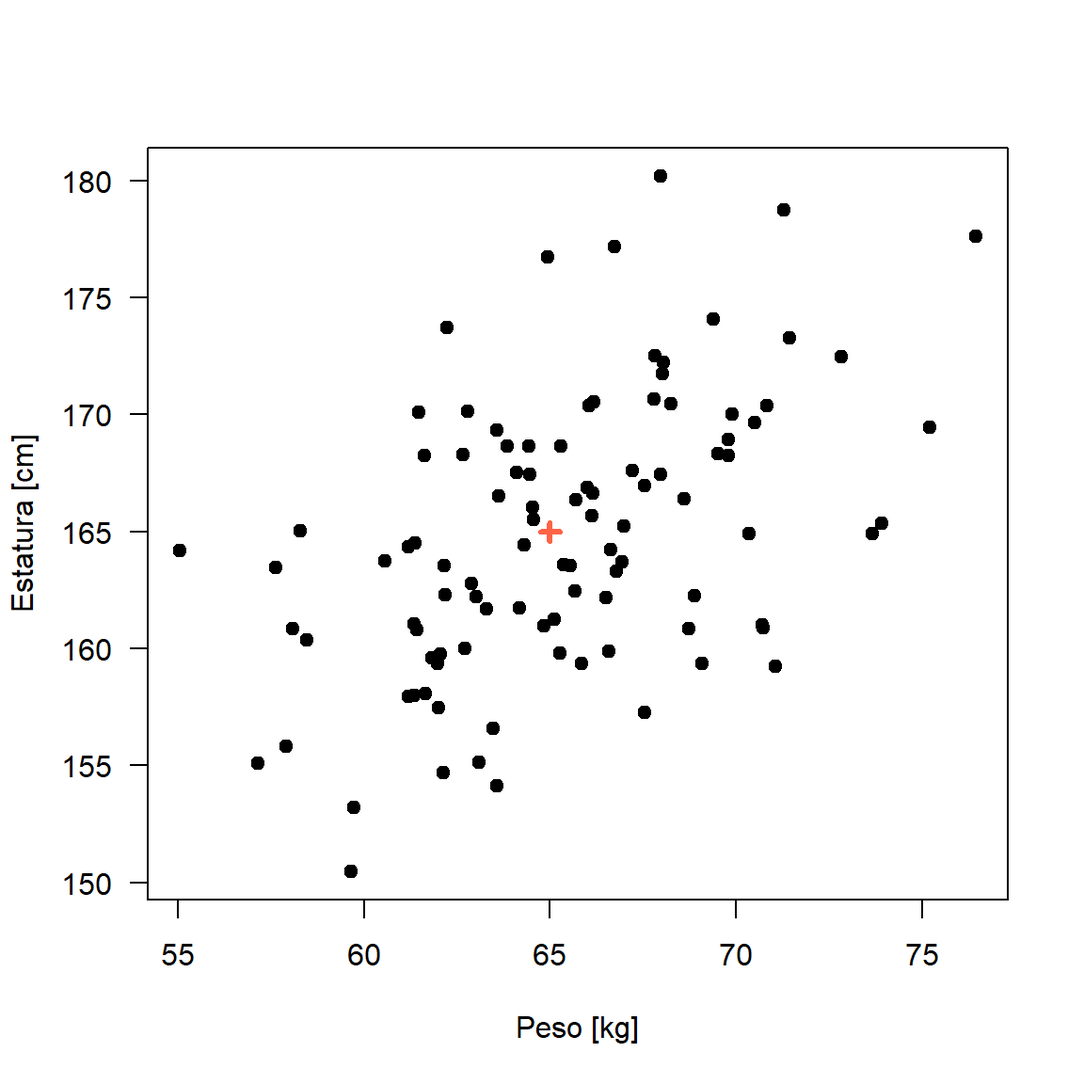
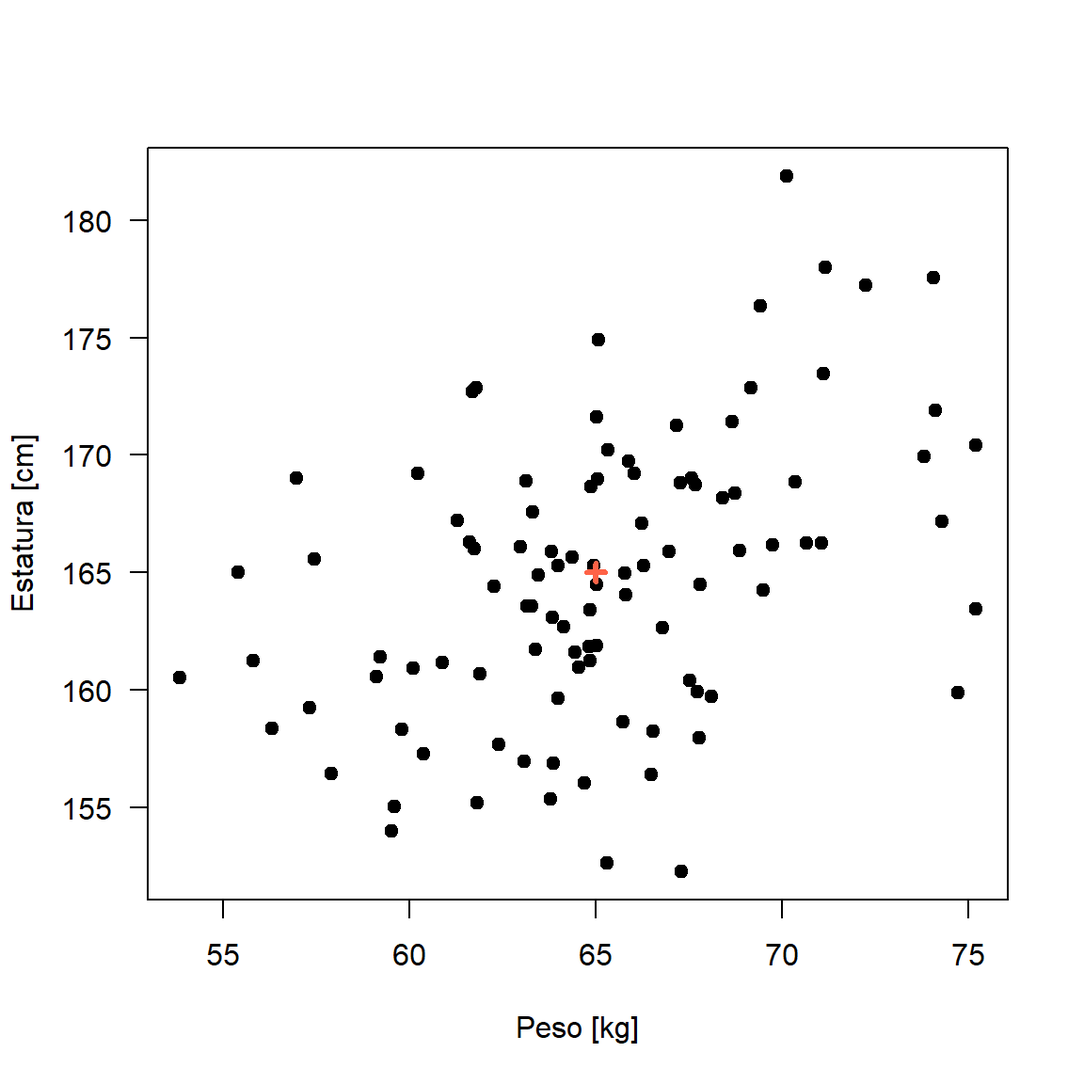
cambié la dimension de Sigma

diff --git a/docs/normalmulti.html b/docs/normalmulti.html
@@ -629,9 +629,9 @@ div.csl-indent {
 <p>En este capítulo se mostrarán aspectos importantes de la distribución normal multivariada.</p>
 <div id="función-de-densidad" class="section level2 hasAnchor" number="23.1">
 <h2><span class="header-section-number">23.1</span> Función de densidad<a href="normalmulti.html#función-de-densidad" class="anchor-section" aria-label="Anchor link to header"></a></h2>
-<p>En la densidad Normal <span class="math inline">\(p\)</span>-variada, hay dos parámetros, <span class="math inline">\(\boldsymbol{\mu}\)</span> y <span class="math inline">\(\boldsymbol{\Sigma}\)</span>. El primero es un vector de columna <span class="math inline">\(p \times 1\)</span> de parámetros de localización y una <span class="math inline">\(n\times n\)</span> matriz de dispersión <span class="math inline">\(\boldsymbol{\Sigma}\)</span>. La función de densidad de una normal multivariada es la siguiente:</p>
+<p>En la densidad Normal <span class="math inline">\(p\)</span>-variada, hay dos parámetros, <span class="math inline">\(\boldsymbol{\mu}\)</span> y <span class="math inline">\(\boldsymbol{\Sigma}\)</span>. El primero es un vector de columna <span class="math inline">\(p \times 1\)</span> de parámetros de localización y una <span class="math inline">\(p \times p\)</span> matriz de dispersión <span class="math inline">\(\boldsymbol{\Sigma}\)</span>. La función de densidad de una normal multivariada es la siguiente:</p>
 <p><span class="math display">\[\begin{equation}
-f(\mathbf{x} | \boldsymbol{\mu}, \boldsymbol{\Sigma}) =\frac{1}{\sqrt{(2\pi)^{n}|\boldsymbol{\Sigma}|}} \exp \left( -\frac{1}{2}(\mathbf{x}-\boldsymbol{\mu})^\top\boldsymbol{\Sigma}^{-1}(\mathbf{x}-\boldsymbol{\mu}) \right)
+f(\mathbf{x} | \boldsymbol{\mu}, \boldsymbol{\Sigma}) =\frac{1}{\sqrt{(2\pi)^{p}|\boldsymbol{\Sigma}|}} \exp \left( -\frac{1}{2}(\mathbf{x}-\boldsymbol{\mu})^\top\boldsymbol{\Sigma}^{-1}(\mathbf{x}-\boldsymbol{\mu}) \right)
 \end{equation}\]</span></p>
 <p>El símbolo <span class="math inline">\(|\boldsymbol{\Sigma}|\)</span> se refiere al determinante de la matriz <span class="math inline">\(\boldsymbol{\Sigma}\)</span>. Esta ecuación asume que <span class="math inline">\(\boldsymbol{\Sigma}\)</span> se puede invertir, y una condición suficiente para la existencia de una inversa es que el determinante no sea <span class="math inline">\(0\)</span>. La matriz <span class="math inline">\(\boldsymbol{\Sigma}\)</span> debe ser semidefinida positiva para asegurar que el punto más probable es <span class="math inline">\(\boldsymbol{\mu}\)</span> y que, a medida que <span class="math inline">\(\mathbf{x}\)</span> se aleja de <span class="math inline">\(\boldsymbol{\mu}\)</span> en cualquier dirección, entonces la probabilidad de observar <span class="math inline">\(\mathbf{x}\)</span> disminuye.</p>
 <div id="ejemplo-78" class="section level3 unnumbered hasAnchor">
@@ -737,8 +737,8 @@ Figure 23.2: Diagrama de dispersión para datos simulados de una normal bivariad
 <span id="cb7-6"><a href="normalmulti.html#cb7-6" aria-hidden="true" tabindex="-1"></a><span class="fu">plot_ly</span>(<span class="at">x=</span><span class="sc">~</span>datos[,<span class="dv">1</span>], <span class="at">y=</span><span class="sc">~</span>datos[,<span class="dv">2</span>], <span class="at">z=</span><span class="sc">~</span>density, </span>
 <span id="cb7-7"><a href="normalmulti.html#cb7-7" aria-hidden="true" tabindex="-1"></a>        <span class="at">type =</span> <span class="st">&quot;scatter3d&quot;</span>, <span class="at">color=</span>density)</span></code></pre></div>
 <div class="figure"><span style="display:block;" id="fig:simul2plotly"></span>
-<div id="htmlwidget-c6c1c64728de58faf927" style="width:672px;height:480px;" class="plotly html-widget"></div>
-<script type="application/json" data-for="htmlwidget-c6c1c64728de58faf927">{"x":{"visdat":{"a6cc37fa69a8":["function () ","plotlyVisDat"]},"cur_data":"a6cc37fa69a8","attrs":{"a6cc37fa69a8":{"x":{},"y":{},"z":{},"color":[0.00579759314305372,0.00105528846149096,0.00280936539279586,0.00517449883463428,0.00642470257645133,0.00177602798788303,0.00230163849837282,0.00401186933052929,0.00321793139850274,0.00207317344766544,0.000388873676634169,0.00127217318703608,0.000481570785408012,0.00416577438685134,0.0035698189921598,0.00683325513167298,0.000525445046241242,0.0013005999193521,0.00622293663816126,0.00176786421339844,0.000123986461436872,0.000833032685163327,0.00497811299191095,0.000649568251051195,0.00593888162554871,0.00437683191200781,0.00302797392453034,0.00420530231718908,0.00521907975782822,0.00303868638118235,0.00635371126037551,0.00717727576025716,0.00317284981860455,0.00687138456484001,0.00562029138911437,0.00477534580227932,0.00160907380443444,0.00606153020086021,0.00419421108201373,0.00537588203257385,0.00107999553166713,0.00395092323351335,0.00601921017062452,0.000808566121879351,0.00324160423888364,0.00614679747429576,0.00479918580370738,0.000119413174231353,0.00220173958257536,0.00617006249894637,0.00428584277134906,0.00524918991668494,0.00688977193072637,0.00648473530799035,0.000215571087064113,0.00426727391367376,0.00292762600579918,0.0062061773381516,0.0043023300967611,0.000673570517772477,0.000298408854267893,0.000676027284988996,0.00618701482507847,0.00576432343312721,0.00110752472905934,0.0069922896945597,0.00040252851712066,0.00116287078128259,0.00475926566962914,0.000518312728683546,0.00282584737305007,0.00120316372247307,0.00309298014335505,0.00337223180570515,0.00188245889665358,0.004442842008089,0.00406000018090008,0.00399400979484903,0.00244416444024917,0.00521926852743129,0.00589771497390645,0.00677194134031826,0.00704200267341645,0.00131286700010196,0.00715157196690165,0.00410361922835462,0.00304198653283012,0.0057439406666643,0.00278204584262466,0.0048019869592866,0.00281636197141063,0.00320234463205784,0.00329117396276771,0.0048504937184567,0.000697812792093176,0.00430826008470441,0.00590806680343041,0.00704659897102595,0.00603240093355666,0.00164657391234815],"alpha_stroke":1,"sizes":[10,100],"spans":[1,20],"type":"scatter3d"}},"layout":{"margin":{"b":40,"l":60,"t":25,"r":10},"scene":{"xaxis":{"title":"datos[, 1]"},"yaxis":{"title":"datos[, 2]"},"zaxis":{"title":"density"}},"hovermode":"closest","showlegend":false,"legend":{"yanchor":"top","y":0.5}},"source":"A","config":{"modeBarButtonsToAdd":["hoverclosest","hovercompare"],"showSendToCloud":false},"data":[{"x":[62.1832911658741,70.7354836811572,62.0049505326499,64.4216588292309,66.6242051848748,69.3948899379712,68.7285419936453,65.2561334952548,70.5139015290411,63.4747028017147,55.0440333073416,72.8318125675638,66.7237377947302,61.9799056569962,69.8918202443442,66.0012794771121,75.1973178236361,69.0970745560697,63.6117382641261,58.2870697024157,67.9622325656515,63.5637432883332,61.3595502073356,73.9081864251716,62.1558811800021,66.0548952095309,68.0426983249228,68.2583173459498,68.6016535729429,68.871359793259,62.8966088410796,64.2993318416323,61.6302733455966,65.3609313713837,65.2902143863991,61.4342012332025,71.4453891742475,64.1860319316256,67.7891383345189,65.1101714984938,67.5460185402984,69.7963246732543,63.3020483783744,57.1431514691835,66.5806031345392,67.5413131659225,63.855671846105,76.4450886334611,58.0937767976378,64.4692208730175,61.8283067124298,64.8324740538161,66.1572677377843,66.9888085236827,59.6472961222063,66.1880497704604,70.3545065065715,63.0073112057604,60.5528262420166,62.223543504975,71.274415942359,73.672721177694,67.2114490750207,66.792154725218,70.7149312866757,64.5381821377019,64.9490829529868,57.9143738666238,62.7045011230758,71.0574953547652,67.8206669327799,62.1255043594595,61.3573118971582,68.0319131721358,61.4606284538395,62.0439736016169,69.7966377762303,63.5809574083071,58.4649871609381,66.4953260508466,66.9253412369246,65.5400290634223,66.1327973530395,63.0823057210476,64.5657599790716,62.6613194843501,61.1862638025701,67.9825947302908,62.7880373538102,61.3366893151766,70.832330584848,61.6499538826741,65.8546725316859,61.1957309968995,59.7404738749162,69.5119050929037,64.114769390357,65.6979157245332,65.6823645508529,57.6403780839912],"y":[162.287779401461,160.869974108972,157.4523618333,168.6692841401,164.227575775777,174.079950321233,160.849343138887,159.81068100761,169.658876938395,156.589695677352,164.169516773292,172.478100957479,177.194275907145,159.368562613421,170.019752547548,166.884905917765,169.452382744069,159.357548407828,166.506751693643,165.019948334512,180.213126798146,154.144514556395,164.508607149206,165.352777019409,163.551912405463,170.374603640873,172.230493796835,170.469102967501,166.385177767541,162.245579051743,162.762431419394,164.414685975276,168.258447460959,163.599098727556,168.658233093223,160.820978572231,173.288706372389,161.736727470497,170.662555136538,161.258449309676,157.257758342237,168.932042659017,161.698828098016,155.084845061355,159.893585603152,166.961682039089,168.652937778239,177.616965062623,160.863781272707,167.452795523881,159.611556379005,160.960761028265,166.627629699216,165.226843351812,150.470431689807,170.5363567353,164.903936647557,162.219894834693,163.76150894095,173.706816421395,178.737640083926,164.899928644617,167.588546964547,163.286992962306,160.999533118642,166.020061726623,176.745708786533,155.841212001272,159.996291434112,159.24462490088,172.53037315079,154.685127809554,157.990572278565,171.747009821768,170.105518867689,159.749537001769,168.243550720061,169.34708345879,160.363801217251,162.187953551809,163.693728373437,163.546823777466,165.674163678789,155.136633037773,165.518742673002,168.280645707617,157.970048892193,167.444144473053,170.121022436532,161.033731989607,170.376380263384,158.073616242357,159.379125653003,164.345082821732,153.210992470959,168.316712687185,167.51493460034,166.345488501209,162.478042254131,163.459384234508],"z":[0.00579759314305372,0.00105528846149096,0.00280936539279586,0.00517449883463428,0.00642470257645133,0.00177602798788303,0.00230163849837282,0.00401186933052929,0.00321793139850274,0.00207317344766544,0.000388873676634169,0.00127217318703608,0.000481570785408012,0.00416577438685134,0.0035698189921598,0.00683325513167298,0.000525445046241242,0.0013005999193521,0.00622293663816126,0.00176786421339844,0.000123986461436872,0.000833032685163327,0.00497811299191095,0.000649568251051195,0.00593888162554871,0.00437683191200781,0.00302797392453034,0.00420530231718908,0.00521907975782822,0.00303868638118235,0.00635371126037551,0.00717727576025716,0.00317284981860455,0.00687138456484001,0.00562029138911437,0.00477534580227932,0.00160907380443444,0.00606153020086021,0.00419421108201373,0.00537588203257385,0.00107999553166713,0.00395092323351335,0.00601921017062452,0.000808566121879351,0.00324160423888364,0.00614679747429576,0.00479918580370738,0.000119413174231353,0.00220173958257536,0.00617006249894637,0.00428584277134906,0.00524918991668494,0.00688977193072637,0.00648473530799035,0.000215571087064113,0.00426727391367376,0.00292762600579918,0.0062061773381516,0.0043023300967611,0.000673570517772477,0.000298408854267893,0.000676027284988996,0.00618701482507847,0.00576432343312721,0.00110752472905934,0.0069922896945597,0.00040252851712066,0.00116287078128259,0.00475926566962914,0.000518312728683546,0.00282584737305007,0.00120316372247307,0.00309298014335505,0.00337223180570515,0.00188245889665358,0.004442842008089,0.00406000018090008,0.00399400979484903,0.00244416444024917,0.00521926852743129,0.00589771497390645,0.00677194134031826,0.00704200267341645,0.00131286700010196,0.00715157196690165,0.00410361922835462,0.00304198653283012,0.0057439406666643,0.00278204584262466,0.0048019869592866,0.00281636197141063,0.00320234463205784,0.00329117396276771,0.0048504937184567,0.000697812792093176,0.00430826008470441,0.00590806680343041,0.00704659897102595,0.00603240093355666,0.00164657391234815],"type":"scatter3d","mode":"markers","marker":{"colorbar":{"title":"","ticklen":2},"cmin":0.000119413174231353,"cmax":0.00717727576025716,"colorscale":[["0","rgba(68,1,84,1)"],["0.0416666666666667","rgba(70,19,97,1)"],["0.0833333333333333","rgba(72,32,111,1)"],["0.125","rgba(71,45,122,1)"],["0.166666666666667","rgba(68,58,128,1)"],["0.208333333333333","rgba(64,70,135,1)"],["0.25","rgba(60,82,138,1)"],["0.291666666666667","rgba(56,93,140,1)"],["0.333333333333333","rgba(49,104,142,1)"],["0.375","rgba(46,114,142,1)"],["0.416666666666667","rgba(42,123,142,1)"],["0.458333333333333","rgba(38,133,141,1)"],["0.5","rgba(37,144,140,1)"],["0.541666666666667","rgba(33,154,138,1)"],["0.583333333333333","rgba(39,164,133,1)"],["0.625","rgba(47,174,127,1)"],["0.666666666666667","rgba(53,183,121,1)"],["0.708333333333333","rgba(79,191,110,1)"],["0.75","rgba(98,199,98,1)"],["0.791666666666667","rgba(119,207,85,1)"],["0.833333333333333","rgba(147,214,70,1)"],["0.875","rgba(172,220,52,1)"],["0.916666666666667","rgba(199,225,42,1)"],["0.958333333333333","rgba(226,228,40,1)"],["1","rgba(253,231,37,1)"]],"showscale":false,"color":[0.00579759314305372,0.00105528846149096,0.00280936539279586,0.00517449883463428,0.00642470257645133,0.00177602798788303,0.00230163849837282,0.00401186933052929,0.00321793139850274,0.00207317344766544,0.000388873676634169,0.00127217318703608,0.000481570785408012,0.00416577438685134,0.0035698189921598,0.00683325513167298,0.000525445046241242,0.0013005999193521,0.00622293663816126,0.00176786421339844,0.000123986461436872,0.000833032685163327,0.00497811299191095,0.000649568251051195,0.00593888162554871,0.00437683191200781,0.00302797392453034,0.00420530231718908,0.00521907975782822,0.00303868638118235,0.00635371126037551,0.00717727576025716,0.00317284981860455,0.00687138456484001,0.00562029138911437,0.00477534580227932,0.00160907380443444,0.00606153020086021,0.00419421108201373,0.00537588203257385,0.00107999553166713,0.00395092323351335,0.00601921017062452,0.000808566121879351,0.00324160423888364,0.00614679747429576,0.00479918580370738,0.000119413174231353,0.00220173958257536,0.00617006249894637,0.00428584277134906,0.00524918991668494,0.00688977193072637,0.00648473530799035,0.000215571087064113,0.00426727391367376,0.00292762600579918,0.0062061773381516,0.0043023300967611,0.000673570517772477,0.000298408854267893,0.000676027284988996,0.00618701482507847,0.00576432343312721,0.00110752472905934,0.0069922896945597,0.00040252851712066,0.00116287078128259,0.00475926566962914,0.000518312728683546,0.00282584737305007,0.00120316372247307,0.00309298014335505,0.00337223180570515,0.00188245889665358,0.004442842008089,0.00406000018090008,0.00399400979484903,0.00244416444024917,0.00521926852743129,0.00589771497390645,0.00677194134031826,0.00704200267341645,0.00131286700010196,0.00715157196690165,0.00410361922835462,0.00304198653283012,0.0057439406666643,0.00278204584262466,0.0048019869592866,0.00281636197141063,0.00320234463205784,0.00329117396276771,0.0048504937184567,0.000697812792093176,0.00430826008470441,0.00590806680343041,0.00704659897102595,0.00603240093355666,0.00164657391234815],"line":{"colorbar":{"title":"","ticklen":2},"cmin":0.000119413174231353,"cmax":0.00717727576025716,"colorscale":[["0","rgba(68,1,84,1)"],["0.0416666666666667","rgba(70,19,97,1)"],["0.0833333333333333","rgba(72,32,111,1)"],["0.125","rgba(71,45,122,1)"],["0.166666666666667","rgba(68,58,128,1)"],["0.208333333333333","rgba(64,70,135,1)"],["0.25","rgba(60,82,138,1)"],["0.291666666666667","rgba(56,93,140,1)"],["0.333333333333333","rgba(49,104,142,1)"],["0.375","rgba(46,114,142,1)"],["0.416666666666667","rgba(42,123,142,1)"],["0.458333333333333","rgba(38,133,141,1)"],["0.5","rgba(37,144,140,1)"],["0.541666666666667","rgba(33,154,138,1)"],["0.583333333333333","rgba(39,164,133,1)"],["0.625","rgba(47,174,127,1)"],["0.666666666666667","rgba(53,183,121,1)"],["0.708333333333333","rgba(79,191,110,1)"],["0.75","rgba(98,199,98,1)"],["0.791666666666667","rgba(119,207,85,1)"],["0.833333333333333","rgba(147,214,70,1)"],["0.875","rgba(172,220,52,1)"],["0.916666666666667","rgba(199,225,42,1)"],["0.958333333333333","rgba(226,228,40,1)"],["1","rgba(253,231,37,1)"]],"showscale":false,"color":[0.00579759314305372,0.00105528846149096,0.00280936539279586,0.00517449883463428,0.00642470257645133,0.00177602798788303,0.00230163849837282,0.00401186933052929,0.00321793139850274,0.00207317344766544,0.000388873676634169,0.00127217318703608,0.000481570785408012,0.00416577438685134,0.0035698189921598,0.00683325513167298,0.000525445046241242,0.0013005999193521,0.00622293663816126,0.00176786421339844,0.000123986461436872,0.000833032685163327,0.00497811299191095,0.000649568251051195,0.00593888162554871,0.00437683191200781,0.00302797392453034,0.00420530231718908,0.00521907975782822,0.00303868638118235,0.00635371126037551,0.00717727576025716,0.00317284981860455,0.00687138456484001,0.00562029138911437,0.00477534580227932,0.00160907380443444,0.00606153020086021,0.00419421108201373,0.00537588203257385,0.00107999553166713,0.00395092323351335,0.00601921017062452,0.000808566121879351,0.00324160423888364,0.00614679747429576,0.00479918580370738,0.000119413174231353,0.00220173958257536,0.00617006249894637,0.00428584277134906,0.00524918991668494,0.00688977193072637,0.00648473530799035,0.000215571087064113,0.00426727391367376,0.00292762600579918,0.0062061773381516,0.0043023300967611,0.000673570517772477,0.000298408854267893,0.000676027284988996,0.00618701482507847,0.00576432343312721,0.00110752472905934,0.0069922896945597,0.00040252851712066,0.00116287078128259,0.00475926566962914,0.000518312728683546,0.00282584737305007,0.00120316372247307,0.00309298014335505,0.00337223180570515,0.00188245889665358,0.004442842008089,0.00406000018090008,0.00399400979484903,0.00244416444024917,0.00521926852743129,0.00589771497390645,0.00677194134031826,0.00704200267341645,0.00131286700010196,0.00715157196690165,0.00410361922835462,0.00304198653283012,0.0057439406666643,0.00278204584262466,0.0048019869592866,0.00281636197141063,0.00320234463205784,0.00329117396276771,0.0048504937184567,0.000697812792093176,0.00430826008470441,0.00590806680343041,0.00704659897102595,0.00603240093355666,0.00164657391234815]}},"frame":null},{"x":[55.0440333073416,76.4450886334611],"y":[150.470431689807,180.213126798146],"type":"scatter3d","mode":"markers","opacity":0,"hoverinfo":"none","showlegend":false,"marker":{"colorbar":{"title":"","ticklen":2,"len":0.5,"lenmode":"fraction","y":1,"yanchor":"top"},"cmin":0.000119413174231353,"cmax":0.00717727576025716,"colorscale":[["0","rgba(68,1,84,1)"],["0.0416666666666667","rgba(70,19,97,1)"],["0.0833333333333333","rgba(72,32,111,1)"],["0.125","rgba(71,45,122,1)"],["0.166666666666667","rgba(68,58,128,1)"],["0.208333333333333","rgba(64,70,135,1)"],["0.25","rgba(60,82,138,1)"],["0.291666666666667","rgba(56,93,140,1)"],["0.333333333333333","rgba(49,104,142,1)"],["0.375","rgba(46,114,142,1)"],["0.416666666666667","rgba(42,123,142,1)"],["0.458333333333333","rgba(38,133,141,1)"],["0.5","rgba(37,144,140,1)"],["0.541666666666667","rgba(33,154,138,1)"],["0.583333333333333","rgba(39,164,133,1)"],["0.625","rgba(47,174,127,1)"],["0.666666666666667","rgba(53,183,121,1)"],["0.708333333333333","rgba(79,191,110,1)"],["0.75","rgba(98,199,98,1)"],["0.791666666666667","rgba(119,207,85,1)"],["0.833333333333333","rgba(147,214,70,1)"],["0.875","rgba(172,220,52,1)"],["0.916666666666667","rgba(199,225,42,1)"],["0.958333333333333","rgba(226,228,40,1)"],["1","rgba(253,231,37,1)"]],"showscale":true,"color":[0.000119413174231353,0.00717727576025716],"line":{"color":"rgba(255,127,14,1)"}},"z":[0.000119413174231353,0.00717727576025716],"frame":null}],"highlight":{"on":"plotly_click","persistent":false,"dynamic":false,"selectize":false,"opacityDim":0.2,"selected":{"opacity":1},"debounce":0},"shinyEvents":["plotly_hover","plotly_click","plotly_selected","plotly_relayout","plotly_brushed","plotly_brushing","plotly_clickannotation","plotly_doubleclick","plotly_deselect","plotly_afterplot","plotly_sunburstclick"],"base_url":"https://plot.ly"},"evals":[],"jsHooks":[]}</script>
+<div id="htmlwidget-5e3b874947d0505fd981" style="width:672px;height:480px;" class="plotly html-widget"></div>
+<script type="application/json" data-for="htmlwidget-5e3b874947d0505fd981">{"x":{"visdat":{"75405f1623d0":["function () ","plotlyVisDat"]},"cur_data":"75405f1623d0","attrs":{"75405f1623d0":{"x":{},"y":{},"z":{},"color":[0.00698482314311483,0.000414359077600623,0.00290407514863871,0.00428533993759371,0.00593614030113043,0.00443448021825913,0.00713497874608904,0.00296496256374264,0.00346982512335076,0.00101953944496124,0.00126556235465486,0.00474444522890485,0.00545152117372618,0.0026580639151936,0.00452285258075685,0.00382287274945567,0.00693675404361209,0.00155226088166269,0.00400270490936021,0.00218402490968518,0.00556095583881689,7.01379010044816e-05,0.00166922140756017,0.00490182208174178,0.00277232872299447,0.000283857773946675,0.00545281395622662,0.00524664946811052,0.00246929223040803,0.00204504091585993,0.00537956172493531,0.000184521457581989,0.00535998331385728,0.00350731403019445,0.000903274271348394,0.00668164304642181,0.000849469111882475,0.00677787301057871,0.00722667375404461,0.00296757142167461,0.00598655785418256,0.000815614578637904,0.00146668462869097,0.00104059064242012,0.00130036546197601,0.00131371932036755,0.00592159776754546,0.000702214409967239,0.0035387094333284,0.00237982233793685,0.0010897759846835,0.00353075304069656,0.00487430727475974,0.00378009475613827,0.00679354330558622,0.000844263086430312,0.000328981914104944,0.00595013848591264,0.00686860408628799,0.00605457744947865,0.00695345365869211,0.000825316287755246,0.00272810109933903,0.00244075098816731,0.000106806507361537,0.000271259133787189,0.00130578677378134,0.00526062247184333,0.00437344267821449,0.00671515433598861,0.00665873297243134,0.00538095363571448,0.00494820654890818,0.000471982669093146,6.03179960924878e-05,0.000950590979738636,0.00671474580391261,0.00158576974725883,0.00291519648828795,0.00547116982595332,0.00054266036118367,0.00593649629302721,0.00303815681345478,0.000303752511342915,0.00660334459614,0.00109831335144024,0.00664394027222106,0.00313403337563352,0.0072576306154298,0.00496040117726509,0.000408123781615731,0.00243756333880649,0.00206904816365168,0.00524998994519546,0.00546521266055146,0.00398234040176035,0.00144120650131085,0.00531962837474799,0.0070428806212854,0.000848481610656145],"alpha_stroke":1,"sizes":[10,100],"spans":[1,20],"type":"scatter3d"}},"layout":{"margin":{"b":40,"l":60,"t":25,"r":10},"scene":{"xaxis":{"title":"datos[, 1]"},"yaxis":{"title":"datos[, 2]"},"zaxis":{"title":"density"}},"hovermode":"closest","showlegend":false,"legend":{"yanchor":"top","y":0.5}},"source":"A","config":{"modeBarButtonsToAdd":["hoverclosest","hovercompare"],"showSendToCloud":false},"data":[{"x":[63.9931191231591,71.1462544618743,65.0113933687404,65.3209430079596,65.0324324522682,61.6065144330478,65.7680988868727,59.1069769809493,68.6695200104422,56.3017514643609,59.6032428695896,61.7451615837659,64.8788472092336,71.0553126062315,60.878826625841,60.088433407493,64.8438502579254,60.2178557523312,63.1261891684591,63.8531679346298,67.2770391601261,74.7207775705758,71.106302758034,65.8697094875842,65.7222831337339,74.0688303168439,67.6790568375347,68.4079790111471,69.1544612949084,66.5360626915097,64.5450211275762,75.1962663646281,67.5681788594045,70.3376014804904,59.5076735233858,63.8184920481289,69.4052870963629,63.4682907614791,65.030790976174,62.3977412102678,64.8180602576994,61.802150490771,61.8069649522968,73.8181760696763,63.7922230858285,57.9052254914145,64.4484701025261,74.2917470663105,61.2965775449673,63.0817698942919,66.4752091438305,69.4880539803024,68.8481967859759,67.1715858016494,63.8441887150381,55.796786470608,56.965800442442,62.9850757217762,65.8135190544024,63.3859859720817,66.2839800370298,61.6778799515914,59.7872200586402,67.7172866202704,67.295979597693,65.3065041425578,67.7648502174371,65.0414455204486,63.9744881522693,63.2726153060394,63.1621748557259,66.0382952073283,61.8968098940084,72.2487476807453,70.1146429496319,65.0841211353079,66.2225965160924,57.3248777177654,67.5334721092749,67.8078814872872,75.1875499521257,62.2771690467447,70.6627351143009,53.8319481109838,66.9576925187327,57.4580848068463,64.1371962463042,59.2091066426297,64.9546104564999,68.7215382653667,55.4136408819175,60.37587615612,68.1086934923761,63.3130203780112,64.8552457130566,69.7341638084924,64.6968831367513,66.7940221942858,64.3536591103701,74.1079890600533],"y":[165.292247636917,177.972030842074,171.637093930205,170.197227269014,161.89999490808,166.280339156008,164.970241163314,160.580836087863,171.41341029149,158.343601200855,155.040609092592,165.997234667029,168.64604758337,166.256901572798,161.181398291593,160.915504887716,163.420332975534,169.195302052321,168.908476254386,156.883125927883,168.829312982089,159.898306498626,173.441961372277,169.719446177293,158.646909745529,177.528926379166,168.752812891453,168.189014734741,172.858848731689,158.232940037662,160.982776511368,163.432381894483,169.003743142434,168.836144636446,153.99270730773,165.894107752291,176.345361116943,164.906538364639,164.470863671514,157.667670312965,161.854042091464,172.861560783009,155.213890320847,169.955801125857,155.351992873024,156.440870418941,161.618439392097,167.181238753163,167.214777992293,156.937971913815,156.41398129946,164.22994946433,165.92107092058,171.263179138474,163.075852261468,161.248485362678,169.006818872242,166.070697056552,164.05424174057,161.733977478562,165.292413225846,172.713012360458,158.335279322757,159.90272687077,152.267719510874,152.621998310314,157.970768408,168.960679713062,159.630067112923,163.55739715479,163.570567663559,169.195245164683,160.664565548362,177.237691764325,181.89204598065,174.918126802312,167.096761988442,159.226924543603,160.385180872963,164.497893808469,170.427353550529,164.41966495608,166.268888735155,160.516231622235,165.901965967232,165.587841615196,162.672081936273,161.414668631823,165.278534414327,168.365381643571,165.010872206829,157.284641393386,159.735917420207,167.564715917535,161.224936649347,166.187936475736,156.034513668196,162.651964913041,165.660901504534,171.897797281738],"z":[0.00698482314311483,0.000414359077600623,0.00290407514863871,0.00428533993759371,0.00593614030113043,0.00443448021825913,0.00713497874608904,0.00296496256374264,0.00346982512335076,0.00101953944496124,0.00126556235465486,0.00474444522890485,0.00545152117372618,0.0026580639151936,0.00452285258075685,0.00382287274945567,0.00693675404361209,0.00155226088166269,0.00400270490936021,0.00218402490968518,0.00556095583881689,7.01379010044816e-05,0.00166922140756017,0.00490182208174178,0.00277232872299447,0.000283857773946675,0.00545281395622662,0.00524664946811052,0.00246929223040803,0.00204504091585993,0.00537956172493531,0.000184521457581989,0.00535998331385728,0.00350731403019445,0.000903274271348394,0.00668164304642181,0.000849469111882475,0.00677787301057871,0.00722667375404461,0.00296757142167461,0.00598655785418256,0.000815614578637904,0.00146668462869097,0.00104059064242012,0.00130036546197601,0.00131371932036755,0.00592159776754546,0.000702214409967239,0.0035387094333284,0.00237982233793685,0.0010897759846835,0.00353075304069656,0.00487430727475974,0.00378009475613827,0.00679354330558622,0.000844263086430312,0.000328981914104944,0.00595013848591264,0.00686860408628799,0.00605457744947865,0.00695345365869211,0.000825316287755246,0.00272810109933903,0.00244075098816731,0.000106806507361537,0.000271259133787189,0.00130578677378134,0.00526062247184333,0.00437344267821449,0.00671515433598861,0.00665873297243134,0.00538095363571448,0.00494820654890818,0.000471982669093146,6.03179960924878e-05,0.000950590979738636,0.00671474580391261,0.00158576974725883,0.00291519648828795,0.00547116982595332,0.00054266036118367,0.00593649629302721,0.00303815681345478,0.000303752511342915,0.00660334459614,0.00109831335144024,0.00664394027222106,0.00313403337563352,0.0072576306154298,0.00496040117726509,0.000408123781615731,0.00243756333880649,0.00206904816365168,0.00524998994519546,0.00546521266055146,0.00398234040176035,0.00144120650131085,0.00531962837474799,0.0070428806212854,0.000848481610656145],"type":"scatter3d","mode":"markers","marker":{"colorbar":{"title":"","ticklen":2},"cmin":6.03179960924878e-05,"cmax":0.0072576306154298,"colorscale":[["0","rgba(68,1,84,1)"],["0.0416666666666667","rgba(70,19,97,1)"],["0.0833333333333333","rgba(72,32,111,1)"],["0.125","rgba(71,45,122,1)"],["0.166666666666667","rgba(68,58,128,1)"],["0.208333333333333","rgba(64,70,135,1)"],["0.25","rgba(60,82,138,1)"],["0.291666666666667","rgba(56,93,140,1)"],["0.333333333333333","rgba(49,104,142,1)"],["0.375","rgba(46,114,142,1)"],["0.416666666666667","rgba(42,123,142,1)"],["0.458333333333333","rgba(38,133,141,1)"],["0.5","rgba(37,144,140,1)"],["0.541666666666667","rgba(33,154,138,1)"],["0.583333333333333","rgba(39,164,133,1)"],["0.625","rgba(47,174,127,1)"],["0.666666666666667","rgba(53,183,121,1)"],["0.708333333333333","rgba(79,191,110,1)"],["0.75","rgba(98,199,98,1)"],["0.791666666666667","rgba(119,207,85,1)"],["0.833333333333333","rgba(147,214,70,1)"],["0.875","rgba(172,220,52,1)"],["0.916666666666667","rgba(199,225,42,1)"],["0.958333333333333","rgba(226,228,40,1)"],["1","rgba(253,231,37,1)"]],"showscale":false,"color":[0.00698482314311483,0.000414359077600623,0.00290407514863871,0.00428533993759371,0.00593614030113043,0.00443448021825913,0.00713497874608904,0.00296496256374264,0.00346982512335076,0.00101953944496124,0.00126556235465486,0.00474444522890485,0.00545152117372618,0.0026580639151936,0.00452285258075685,0.00382287274945567,0.00693675404361209,0.00155226088166269,0.00400270490936021,0.00218402490968518,0.00556095583881689,7.01379010044816e-05,0.00166922140756017,0.00490182208174178,0.00277232872299447,0.000283857773946675,0.00545281395622662,0.00524664946811052,0.00246929223040803,0.00204504091585993,0.00537956172493531,0.000184521457581989,0.00535998331385728,0.00350731403019445,0.000903274271348394,0.00668164304642181,0.000849469111882475,0.00677787301057871,0.00722667375404461,0.00296757142167461,0.00598655785418256,0.000815614578637904,0.00146668462869097,0.00104059064242012,0.00130036546197601,0.00131371932036755,0.00592159776754546,0.000702214409967239,0.0035387094333284,0.00237982233793685,0.0010897759846835,0.00353075304069656,0.00487430727475974,0.00378009475613827,0.00679354330558622,0.000844263086430312,0.000328981914104944,0.00595013848591264,0.00686860408628799,0.00605457744947865,0.00695345365869211,0.000825316287755246,0.00272810109933903,0.00244075098816731,0.000106806507361537,0.000271259133787189,0.00130578677378134,0.00526062247184333,0.00437344267821449,0.00671515433598861,0.00665873297243134,0.00538095363571448,0.00494820654890818,0.000471982669093146,6.03179960924878e-05,0.000950590979738636,0.00671474580391261,0.00158576974725883,0.00291519648828795,0.00547116982595332,0.00054266036118367,0.00593649629302721,0.00303815681345478,0.000303752511342915,0.00660334459614,0.00109831335144024,0.00664394027222106,0.00313403337563352,0.0072576306154298,0.00496040117726509,0.000408123781615731,0.00243756333880649,0.00206904816365168,0.00524998994519546,0.00546521266055146,0.00398234040176035,0.00144120650131085,0.00531962837474799,0.0070428806212854,0.000848481610656145],"line":{"colorbar":{"title":"","ticklen":2},"cmin":6.03179960924878e-05,"cmax":0.0072576306154298,"colorscale":[["0","rgba(68,1,84,1)"],["0.0416666666666667","rgba(70,19,97,1)"],["0.0833333333333333","rgba(72,32,111,1)"],["0.125","rgba(71,45,122,1)"],["0.166666666666667","rgba(68,58,128,1)"],["0.208333333333333","rgba(64,70,135,1)"],["0.25","rgba(60,82,138,1)"],["0.291666666666667","rgba(56,93,140,1)"],["0.333333333333333","rgba(49,104,142,1)"],["0.375","rgba(46,114,142,1)"],["0.416666666666667","rgba(42,123,142,1)"],["0.458333333333333","rgba(38,133,141,1)"],["0.5","rgba(37,144,140,1)"],["0.541666666666667","rgba(33,154,138,1)"],["0.583333333333333","rgba(39,164,133,1)"],["0.625","rgba(47,174,127,1)"],["0.666666666666667","rgba(53,183,121,1)"],["0.708333333333333","rgba(79,191,110,1)"],["0.75","rgba(98,199,98,1)"],["0.791666666666667","rgba(119,207,85,1)"],["0.833333333333333","rgba(147,214,70,1)"],["0.875","rgba(172,220,52,1)"],["0.916666666666667","rgba(199,225,42,1)"],["0.958333333333333","rgba(226,228,40,1)"],["1","rgba(253,231,37,1)"]],"showscale":false,"color":[0.00698482314311483,0.000414359077600623,0.00290407514863871,0.00428533993759371,0.00593614030113043,0.00443448021825913,0.00713497874608904,0.00296496256374264,0.00346982512335076,0.00101953944496124,0.00126556235465486,0.00474444522890485,0.00545152117372618,0.0026580639151936,0.00452285258075685,0.00382287274945567,0.00693675404361209,0.00155226088166269,0.00400270490936021,0.00218402490968518,0.00556095583881689,7.01379010044816e-05,0.00166922140756017,0.00490182208174178,0.00277232872299447,0.000283857773946675,0.00545281395622662,0.00524664946811052,0.00246929223040803,0.00204504091585993,0.00537956172493531,0.000184521457581989,0.00535998331385728,0.00350731403019445,0.000903274271348394,0.00668164304642181,0.000849469111882475,0.00677787301057871,0.00722667375404461,0.00296757142167461,0.00598655785418256,0.000815614578637904,0.00146668462869097,0.00104059064242012,0.00130036546197601,0.00131371932036755,0.00592159776754546,0.000702214409967239,0.0035387094333284,0.00237982233793685,0.0010897759846835,0.00353075304069656,0.00487430727475974,0.00378009475613827,0.00679354330558622,0.000844263086430312,0.000328981914104944,0.00595013848591264,0.00686860408628799,0.00605457744947865,0.00695345365869211,0.000825316287755246,0.00272810109933903,0.00244075098816731,0.000106806507361537,0.000271259133787189,0.00130578677378134,0.00526062247184333,0.00437344267821449,0.00671515433598861,0.00665873297243134,0.00538095363571448,0.00494820654890818,0.000471982669093146,6.03179960924878e-05,0.000950590979738636,0.00671474580391261,0.00158576974725883,0.00291519648828795,0.00547116982595332,0.00054266036118367,0.00593649629302721,0.00303815681345478,0.000303752511342915,0.00660334459614,0.00109831335144024,0.00664394027222106,0.00313403337563352,0.0072576306154298,0.00496040117726509,0.000408123781615731,0.00243756333880649,0.00206904816365168,0.00524998994519546,0.00546521266055146,0.00398234040176035,0.00144120650131085,0.00531962837474799,0.0070428806212854,0.000848481610656145]}},"frame":null},{"x":[53.8319481109838,75.1962663646281],"y":[152.267719510874,181.89204598065],"type":"scatter3d","mode":"markers","opacity":0,"hoverinfo":"none","showlegend":false,"marker":{"colorbar":{"title":"","ticklen":2,"len":0.5,"lenmode":"fraction","y":1,"yanchor":"top"},"cmin":6.03179960924878e-05,"cmax":0.0072576306154298,"colorscale":[["0","rgba(68,1,84,1)"],["0.0416666666666667","rgba(70,19,97,1)"],["0.0833333333333333","rgba(72,32,111,1)"],["0.125","rgba(71,45,122,1)"],["0.166666666666667","rgba(68,58,128,1)"],["0.208333333333333","rgba(64,70,135,1)"],["0.25","rgba(60,82,138,1)"],["0.291666666666667","rgba(56,93,140,1)"],["0.333333333333333","rgba(49,104,142,1)"],["0.375","rgba(46,114,142,1)"],["0.416666666666667","rgba(42,123,142,1)"],["0.458333333333333","rgba(38,133,141,1)"],["0.5","rgba(37,144,140,1)"],["0.541666666666667","rgba(33,154,138,1)"],["0.583333333333333","rgba(39,164,133,1)"],["0.625","rgba(47,174,127,1)"],["0.666666666666667","rgba(53,183,121,1)"],["0.708333333333333","rgba(79,191,110,1)"],["0.75","rgba(98,199,98,1)"],["0.791666666666667","rgba(119,207,85,1)"],["0.833333333333333","rgba(147,214,70,1)"],["0.875","rgba(172,220,52,1)"],["0.916666666666667","rgba(199,225,42,1)"],["0.958333333333333","rgba(226,228,40,1)"],["1","rgba(253,231,37,1)"]],"showscale":true,"color":[6.03179960924878e-05,0.0072576306154298],"line":{"color":"rgba(255,127,14,1)"}},"z":[6.03179960924878e-05,0.0072576306154298],"frame":null}],"highlight":{"on":"plotly_click","persistent":false,"dynamic":false,"selectize":false,"opacityDim":0.2,"selected":{"opacity":1},"debounce":0},"shinyEvents":["plotly_hover","plotly_click","plotly_selected","plotly_relayout","plotly_brushed","plotly_brushing","plotly_clickannotation","plotly_doubleclick","plotly_deselect","plotly_afterplot","plotly_sunburstclick"],"base_url":"https://plot.ly"},"evals":[],"jsHooks":[]}</script>
 <p class="caption">
 Figure 23.3: Densidad para los datos simulados de una normal bivariada usando plotly.
 </p>
